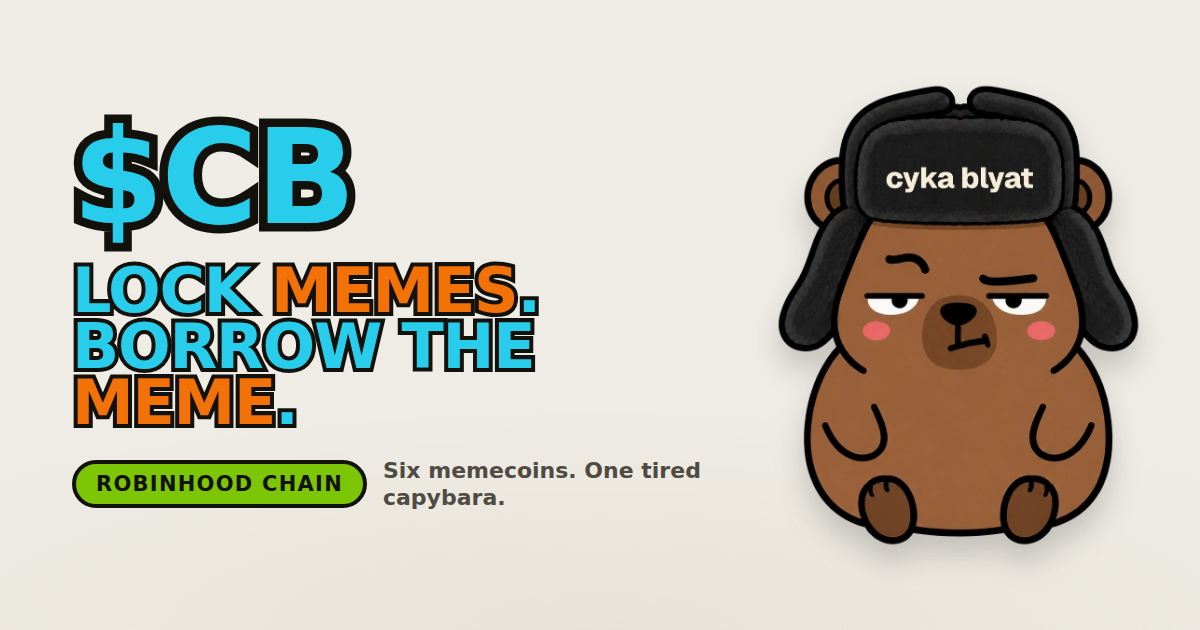
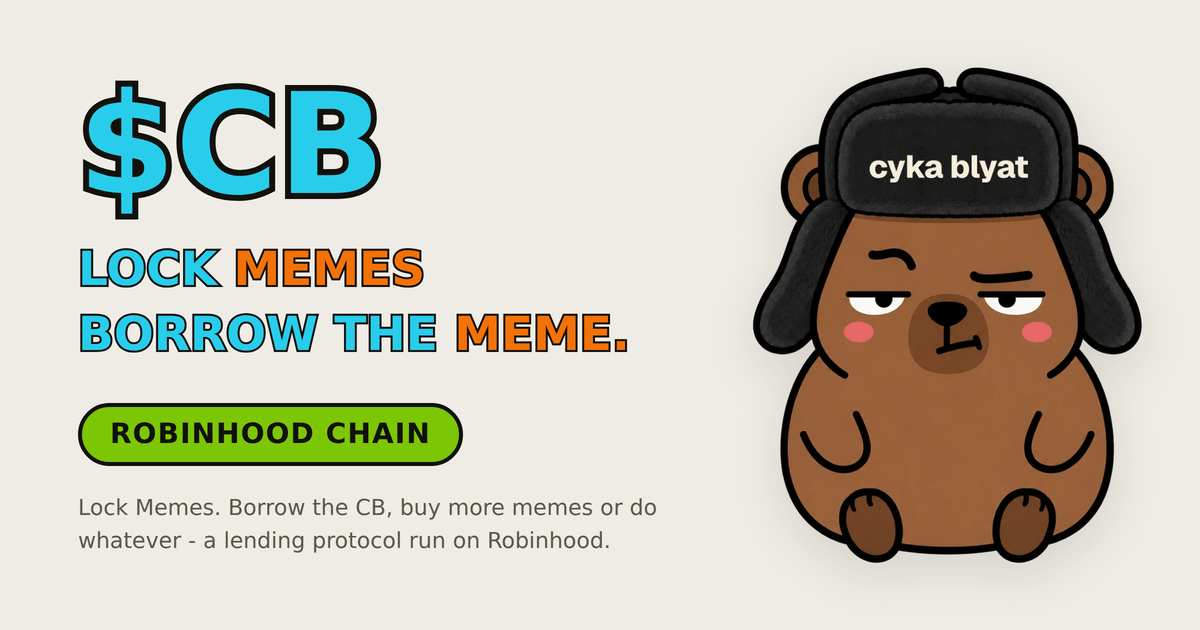
Redesign the share card and refresh the preview text
New og.png: three headline lines — $CB / LOCK MEMES / BORROW THE MEME. — with
air between them, the Robinhood Chain pill, and a small light two-line tagline
under it. Drops "Six memecoins. One tired capybara." The headline stroke is
thinner than before so the card reads lighter, and the capybara keeps his spot
on the right.

Title becomes "$CB — Capybara CykaBlyat"; description becomes "Lock Memes.
Borrow the CB, buy more memes or do whatever - a lending protocol run on
Robinhood." Both the OpenGraph and Twitter copies and the image alt text follow.

Claude-Session: https://claude.ai/code/session_01AwDL7xSUWu4HoaSM6g9izF

diff --git a/src/app/layout.tsx b/src/app/layout.tsx
@@ -41,9 +41,9 @@ const SITE_URL =
   process.env.NEXT_PUBLIC_SITE_URL ??
   "https://cykablyat.vip";
 
-const TITLE = "$CB — Capybara Blyatovich";
+const TITLE = "$CB — Capybara CykaBlyat";
 const DESCRIPTION =
-  "Lock memes. Borrow the meme. A lending protocol run by one tired capybara.";
+  "Lock Memes. Borrow the CB, buy more memes or do whatever - a lending protocol run on Robinhood.";
 
 export const metadata: Metadata = {
   metadataBase: new URL(SITE_URL),
@@ -64,7 +64,7 @@ export const metadata: Metadata = {
         url: "/og.png",
         width: 1200,
         height: 630,
-        alt: "Capybara Blyatovich in his 'cyka blyat' ushanka, beside the words: lock memes, borrow the meme.",
+        alt: "Capybara CykaBlyat in his 'cyka blyat' ushanka, beside the words: $CB, lock memes, borrow the meme.",
       },
     ],
   },
